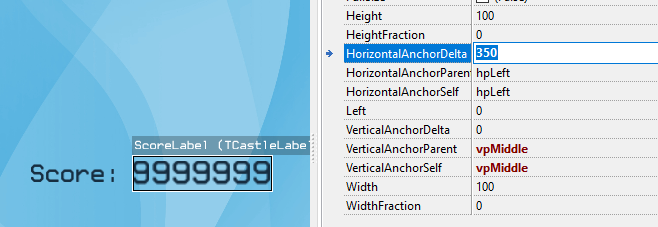
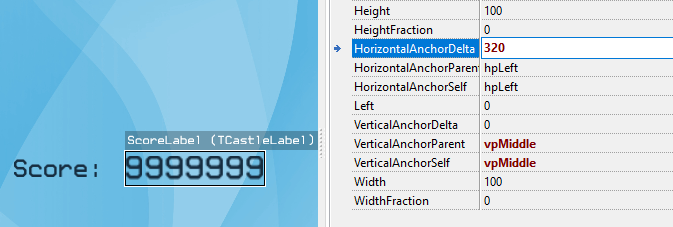
change anchor deltas

diff --git a/README.md b/README.md
@@ -749,7 +749,7 @@ Let's name our labels `ScoreText` and `ScoreLabel`. Let's set `Caption`s to "Sco
 
 ![Label's properties](images/scorelabel-properties.png)
 
-Let's go to Layout tab and set `VerticalAnchorParent` and `VerticalAnchorSelf` to `vpMiddle` for both labels. Let's leave `HorizontalAnchorParent` and `HorizontalAnchorSelf` at default `hpLeft` and change `HorizontalAnchorDelta` to "150" and "350" correspondingly. Now our design looks like this:
+Let's go to Layout tab and set `VerticalAnchorParent` and `VerticalAnchorSelf` to `vpMiddle` for both labels. Let's leave `HorizontalAnchorParent` and `HorizontalAnchorSelf` at default `hpLeft` and change `HorizontalAnchorDelta` to "100" and "320" correspondingly. Now our design looks like this:
 
 ![Labels anchors](images/score-label-anchors.png)
 
